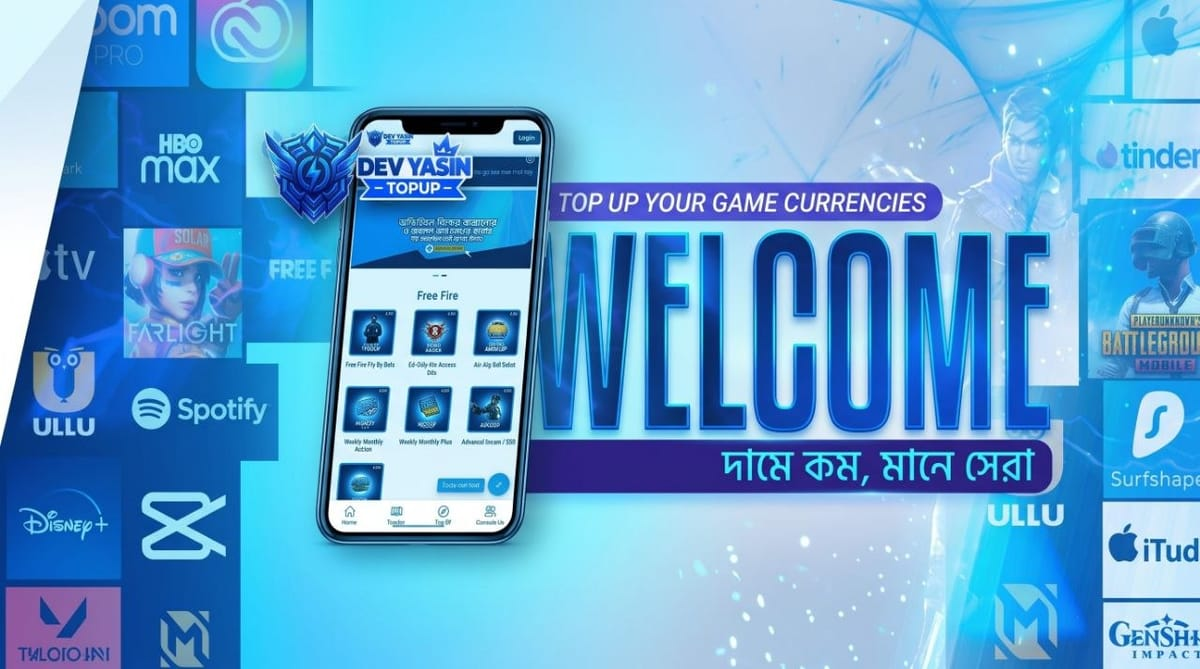
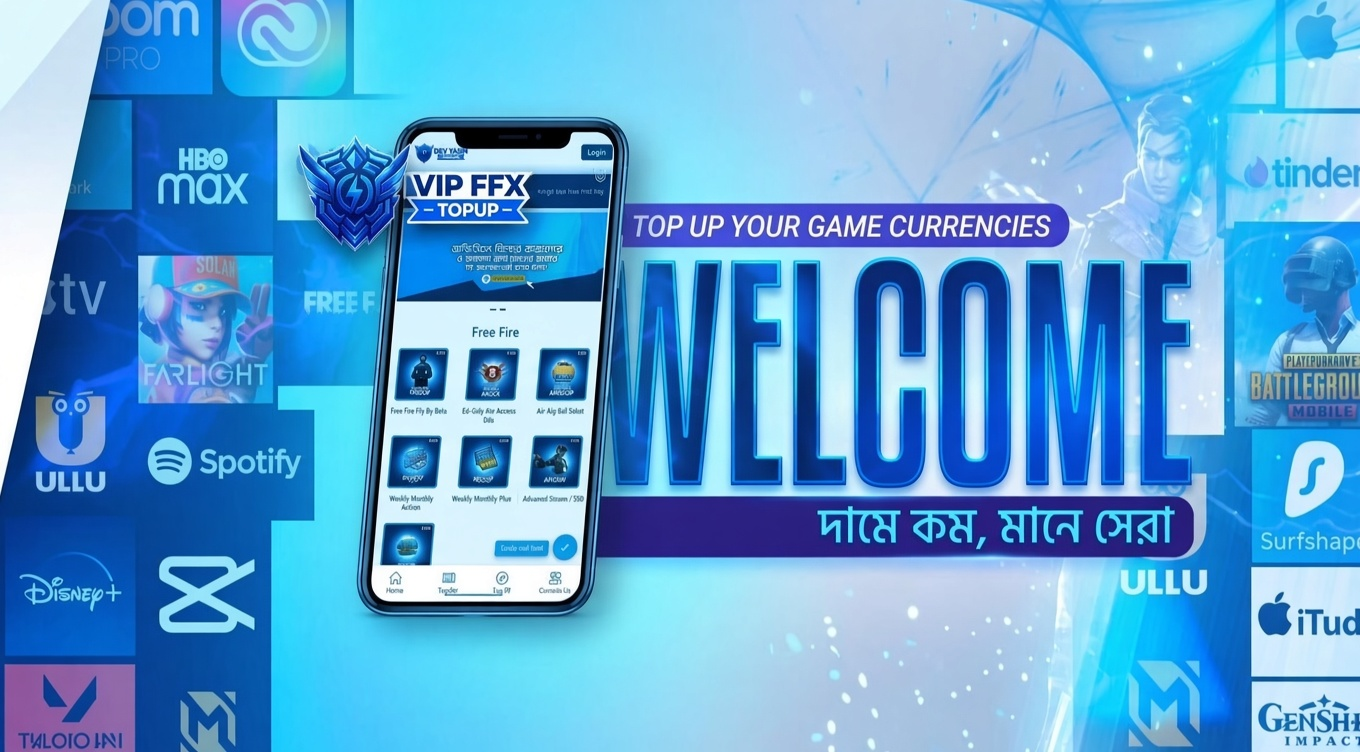
Add files via upload

diff --git a/FFX.html b/FFX.html
@@ -4,19 +4,100 @@
 <meta charset="UTF-8">
 <meta name="viewport" content="width=device-width, initial-scale=1, viewport-fit=cover">
 <meta name="theme-color" content="#ffffff">
+<meta http-equiv="Cache-Control" content="no-cache, no-store, must-revalidate">
+<meta http-equiv="Pragma" content="no-cache">
+<meta http-equiv="Expires" content="0">
 <link rel="icon" type="image/jpeg" href="Main logo.jpg">
 <link rel="shortcut icon" href="Main logo.jpg">
 <link rel="apple-touch-icon" href="Main logo.jpg">
 <meta property="og:image" content="Main logo.jpg">
 <title>Nickname</title>
 <script>
-// account.js কখনো পুরোনো (cache) কপি থেকে না আসুক: সার্ভারে হলে প্রতিবার নতুন করে আনবে
-(function(){
-  var s = (location.protocol.indexOf('http') === 0) ? 'account.js?v=' + Date.now() : 'account.js';
-  document.write('<script src="' + s + '"><\/script>');
+// =======================================================
+// INSTANT CONFIG LOADER & CACHE-BUSTER (Render Live Update)
+// =======================================================
+window.ACCOUNT_CONFIG = window.ACCOUNT_CONFIG || {};
+
+function syncAccountLinks() {
+  var siteName = (typeof website_name !== 'undefined' ? website_name : (window.website_name || (window.ACCOUNT_CONFIG && window.ACCOUNT_CONFIG.websiteName) || '')).trim();
+  if (!siteName) siteName = 'Nickname';
+
+  document.title = siteName;
+  document.querySelectorAll('[data-site-name]').forEach(function(el) {
+    el.textContent = siteName;
+  });
+  document.querySelectorAll('[data-site-logo]').forEach(function(el) {
+    el.alt = siteName;
+  });
+
+  var tgCh = (typeof telegram_channel_link !== 'undefined' ? telegram_channel_link : (window.telegram_channel_link || (window.ACCOUNT_CONFIG && window.ACCOUNT_CONFIG.telegramChannel) || '')).trim();
+  var tgGrp = (typeof telegram_group_link !== 'undefined' ? telegram_group_link : (window.telegram_group_link || (window.ACCOUNT_CONFIG && window.ACCOUNT_CONFIG.telegramGroup) || '')).trim();
+  var ytCh = (typeof youtube_channel_link !== 'undefined' ? youtube_channel_link : (window.youtube_channel_link || (window.ACCOUNT_CONFIG && window.ACCOUNT_CONFIG.youtubeChannel) || '')).trim();
+
+  function sanitize(url, placeholder) {
+    if (!url) return '';
+    url = url.trim();
+    if (!url || url.toLowerCase() === placeholder.toLowerCase() || url === '#' || (url.indexOf(' ') !== -1 && !url.startsWith('http'))) {
+      return '';
+    }
+    if (!/^https?:\/\//i.test(url)) {
+      return 'https://' + url;
+    }
+    return url;
+  }
+
+  var validTgCh = sanitize(tgCh, 'telegram channel link');
+  var validTgGrp = sanitize(tgGrp, 'telegram group link');
+  var validYtCh = sanitize(ytCh, 'YouTube channel link');
+
+  function bindLinks(selector, url) {
+    document.querySelectorAll(selector).forEach(function(el) {
+      if (url) {
+        el.href = url;
+        el.target = '_blank';
+        el.rel = 'noopener noreferrer';
+        el.onclick = null;
+      } else {
+        el.href = '#';
+        el.removeAttribute('target');
+        el.onclick = function(e) {
+          e.preventDefault();
+        };
+      }
+    });
+  }
+
+  bindLinks('[data-link="telegram-channel"]', validTgCh);
+  bindLinks('[data-link="telegram-group"]', validTgGrp);
+  bindLinks('[data-link="youtube-channel"]', validYtCh);
+
+  // নোটিফিকেশন পপআপের লেখা (account.js এর notification_text)
+  var note = (typeof notification_text !== 'undefined' ? notification_text : (window.notification_text || (window.ACCOUNT_CONFIG && window.ACCOUNT_CONFIG.notificationText) || '')).toString();
+  note = note.replace(/\\n/g, '\n').trim();
+  var popEl = document.getElementById('popText');
+  if (popEl && note) {
+    popEl.textContent = '';
+    note.split(/\r?\n/).forEach(function(line, i){
+      if (i) popEl.appendChild(document.createElement('br'));
+      popEl.appendChild(document.createTextNode(line));
+    });
+  }
+}
+
+window.syncAccountLinks = syncAccountLinks;
+
+// Dynamically inject account.js with unique cache-busting timestamp
+(function() {
+  var buster = Date.now() + '_' + Math.floor(Math.random() * 1000000);
+  var s = document.createElement('script');
+  s.src = (location.protocol.indexOf('http') === 0) ? 'account.js?v=' + buster : 'account.js';
+  s.async = false;
+  s.onload = function() {
+    if (typeof syncAccountLinks === 'function') syncAccountLinks();
+  };
+  (document.head || document.documentElement).appendChild(s);
 })();
 </script>
-<script>if(typeof website_name!=='undefined'&&website_name.trim())document.title=website_name.trim();</script>
 <style>
 :root{--bg:#f5f8ff;--card:#fff;--bd:#e1e8f5;--v:#2563eb;--v2:#3b82f6;--gold:#93c5fd;--tx:#0f172a;--mu:#666b85;--g:linear-gradient(135deg,#3b82f6,#1d4ed8)}
 *{box-sizing:border-box;margin:0;padding:0;-webkit-tap-highlight-color:transparent}
@@ -752,30 +833,83 @@ function syncAccountLinks() {
 syncAccountLinks();
 document.addEventListener('DOMContentLoaded', syncAccountLinks);
 
-// Fallback plain-text fetch (works on HTTP/HTTPS servers or supported environments)
-if (window.location.protocol.indexOf('http') === 0) {
-  fetch('account.js').then(function(r){ return r.text(); }).then(function(txt){
-    var lines = txt.split(/\r?\n/).map(function(l){ return l.trim(); }).filter(function(l){
-      return l && !l.startsWith('//') && !l.startsWith('/*') && !l.startsWith('*');
-    });
-    var name = '', ch = '', grp = '', yt = '';
-    var mName = txt.match(/website_name\s*=\s*["']([^"']+)["']/i);
-    var mCh = txt.match(/telegram_channel_link\s*=\s*["']([^"']+)["']/i);
-    var mGrp = txt.match(/telegram_group_link\s*=\s*["']([^"']+)["']/i);
-    var mYt = txt.match(/youtube_channel_link\s*=\s*["']([^"']+)["']/i);
-    if (mName) name = mName[1];
-    if (mCh) ch = mCh[1];
-    if (mGrp) grp = mGrp[1];
-    if (mYt) yt = mYt[1];
-    if (name) window.website_name = name;
-    if (ch) window.telegram_channel_link = ch;
-    if (grp) window.telegram_group_link = grp;
-    if (yt) window.youtube_channel_link = yt;
-    var mNote = txt.match(/notification_text\s*=\s*(["'`])([\s\S]*?)\1\s*;/i);
-    if (mNote) window.notification_text = mNote[2];
-    syncAccountLinks();
-  }).catch(function(){});
+// Instant Live Fetch with strict no-cache headers to bypass browser and CDN cache
+function fetchFreshAccountConfig() {
+  if (window.location.protocol.indexOf('http') !== 0) return;
+  var buster = Date.now() + '_' + Math.floor(Math.random() * 1000000);
+  var url = 'account.js?v=' + buster + '&_t=' + Math.random();
+  fetch(url, {
+    method: 'GET',
+    cache: 'no-store',
+    headers: {
+      'Cache-Control': 'no-cache, no-store, must-revalidate',
+      'Pragma': 'no-cache',
+      'Expires': '0'
+    }
+  }).then(function(res){
+    if (!res.ok) return '';
+    return res.text();
+  }).then(function(txt){
+    if (!txt) return;
+
+    // 1. Try direct evaluation
+    var parsed = false;
+    try {
+      var runner = new Function(txt + '\n;return {' +
+        'website_name: (typeof website_name !== "undefined" ? website_name : null),' +
+        'telegram_channel_link: (typeof telegram_channel_link !== "undefined" ? telegram_channel_link : null),' +
+        'telegram_group_link: (typeof telegram_group_link !== "undefined" ? telegram_group_link : null),' +
+        'youtube_channel_link: (typeof youtube_channel_link !== "undefined" ? youtube_channel_link : null),' +
+        'notification_text: (typeof notification_text !== "undefined" ? notification_text : null)' +
+      '};');
+      var cfg = runner();
+      if (cfg) {
+        if (cfg.website_name !== null) window.website_name = cfg.website_name;
+        if (cfg.telegram_channel_link !== null) window.telegram_channel_link = cfg.telegram_channel_link;
+        if (cfg.telegram_group_link !== null) window.telegram_group_link = cfg.telegram_group_link;
+        if (cfg.youtube_channel_link !== null) window.youtube_channel_link = cfg.youtube_channel_link;
+        if (cfg.notification_text !== null) window.notification_text = cfg.notification_text;
+        parsed = true;
+      }
+    } catch(e) {}
+
+    // 2. Fallback regex extraction (supports double quotes, single quotes, and backticks without needing semicolons)
+    if (!parsed) {
+      var extractProp = function(prop) {
+        var re = new RegExp(prop + '\\s*=\\s*([`"\'])([\\s\\S]*?)\\1', 'i');
+        var m = txt.match(re);
+        return m ? m[2].trim() : null;
+      };
+      var name = extractProp('website_name');
+      var tgCh = extractProp('telegram_channel_link');
+      var tgGrp = extractProp('telegram_group_link');
+      var ytCh = extractProp('youtube_channel_link');
+      var note = extractProp('notification_text');
+
+      if (name !== null) window.website_name = name;
+      if (tgCh !== null) window.telegram_channel_link = tgCh;
+      if (tgGrp !== null) window.telegram_group_link = tgGrp;
+      if (ytCh !== null) window.youtube_channel_link = ytCh;
+      if (note !== null) window.notification_text = note;
+    }
+
+    if (typeof syncAccountLinks === 'function') syncAccountLinks();
+  }).catch(function(err){
+    console.warn('Account config live fetch notice:', err);
+  });
 }
+
+fetchFreshAccountConfig();
+document.addEventListener('DOMContentLoaded', function(){
+  if (typeof syncAccountLinks === 'function') syncAccountLinks();
+  fetchFreshAccountConfig();
+});
+window.addEventListener('load', function(){
+  if (typeof syncAccountLinks === 'function') syncAccountLinks();
+});
+
+// Render-এ ডিপ্লয় হওয়ার সাথে সাথে যাতে ভিজিটরদের পেজ রিফ্রেশ না করলেও আপডেট হয়ে যায় (প্রতি ১৫ সেকেন্ডে চেক করবে)
+setInterval(fetchFreshAccountConfig, 15000);
 
 // ==========================================
 // ==========================================
@@ -1039,7 +1173,11 @@ if (window.location.protocol.indexOf('http') === 0) {
 // ==========================================
 (function(){
   var pop = document.getElementById('pop');
-  function openP(){ pop.classList.add('show'); document.body.style.overflow='hidden'; }
+  function openP(){
+    if (typeof window.syncAccountLinks === 'function') window.syncAccountLinks();
+    pop.classList.add('show');
+    document.body.style.overflow='hidden';
+  }
   function closeP(){ pop.classList.remove('show'); document.body.style.overflow=''; }
   document.getElementById('pclose').onclick = closeP;
   pop.addEventListener('click', function(e){ if (e.target === pop) closeP(); });
@@ -1047,6 +1185,7 @@ if (window.location.protocol.indexOf('http') === 0) {
   setTimeout(openP, 500);
 
   document.getElementById('fb').onclick = function(){
+    if (typeof window.syncAccountLinks === 'function') window.syncAccountLinks();
     document.getElementById('fab').classList.toggle('open');
   };
 })();

diff --git a/account.js b/account.js
@@ -1,7 +1,7 @@
 // =======================================================
 // WEBSITE NAME (NICKNAME)
 // =======================================================
-var website_name = "YASIN";
+var website_name = "VIP FFX";
 
 // =======================================================
 // TELEGRAM CHANNEL LINK
